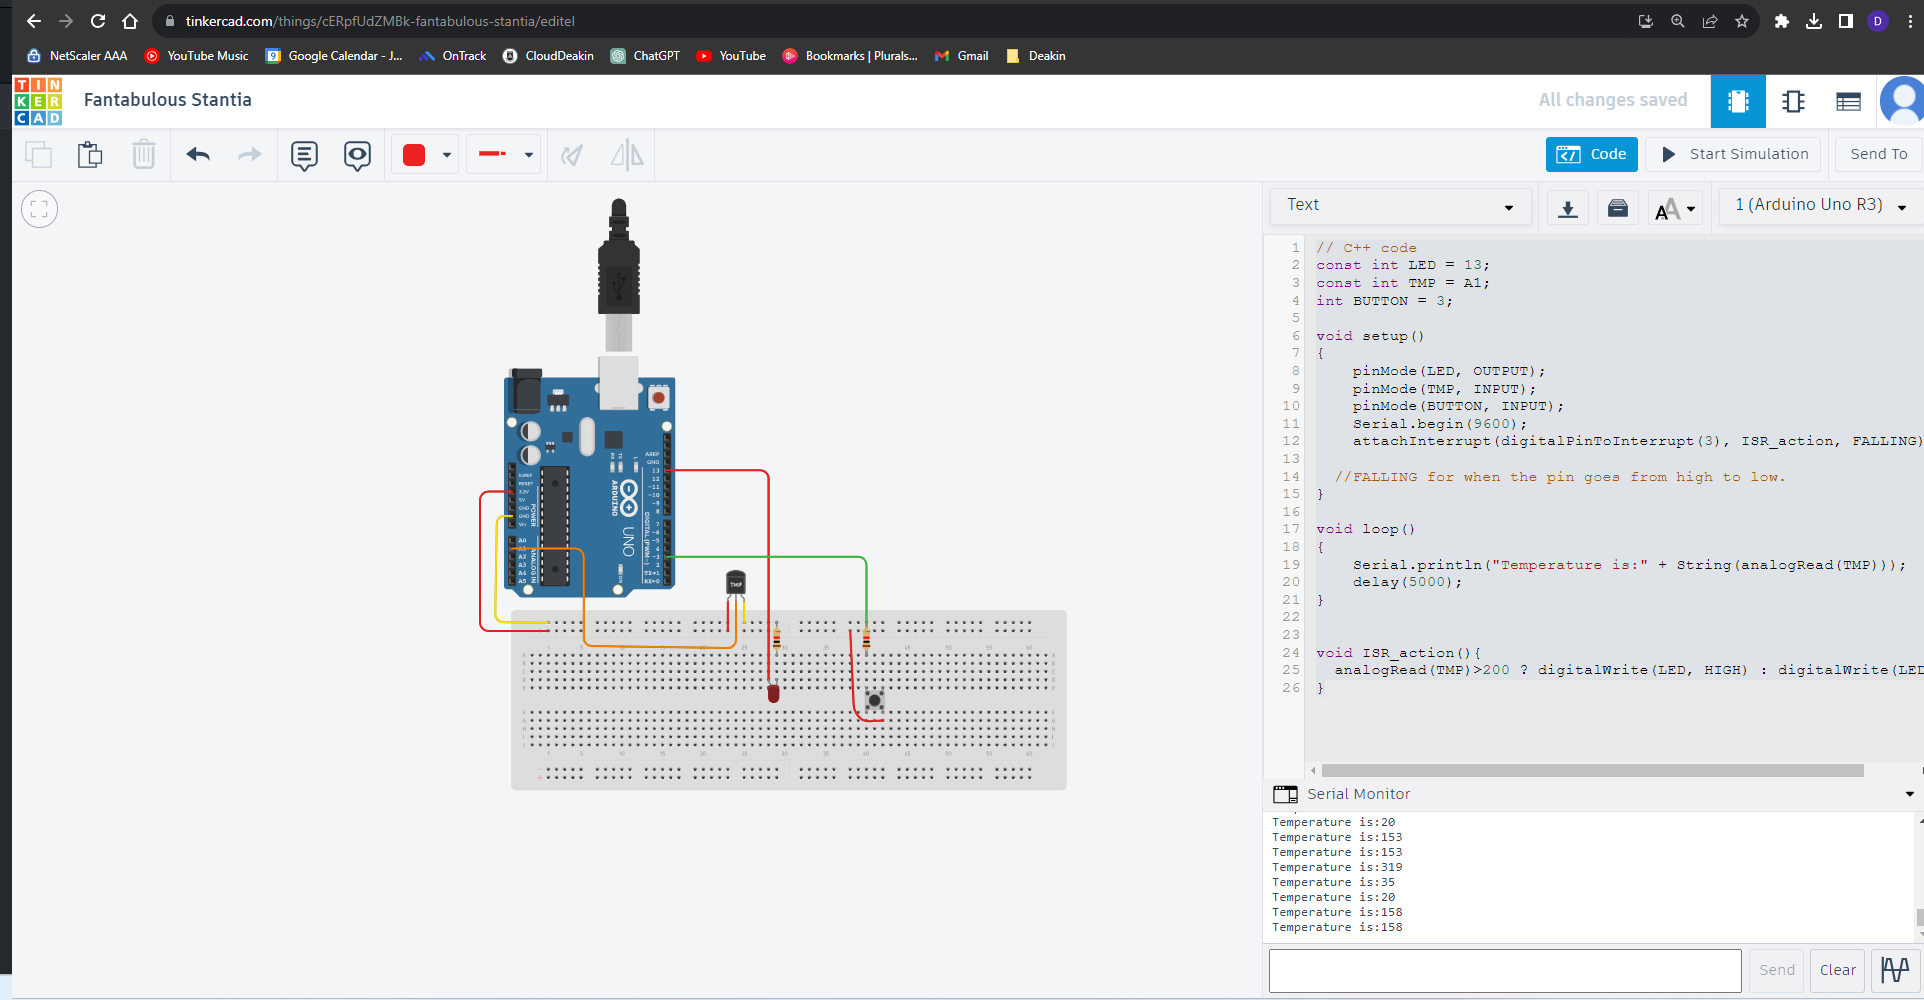
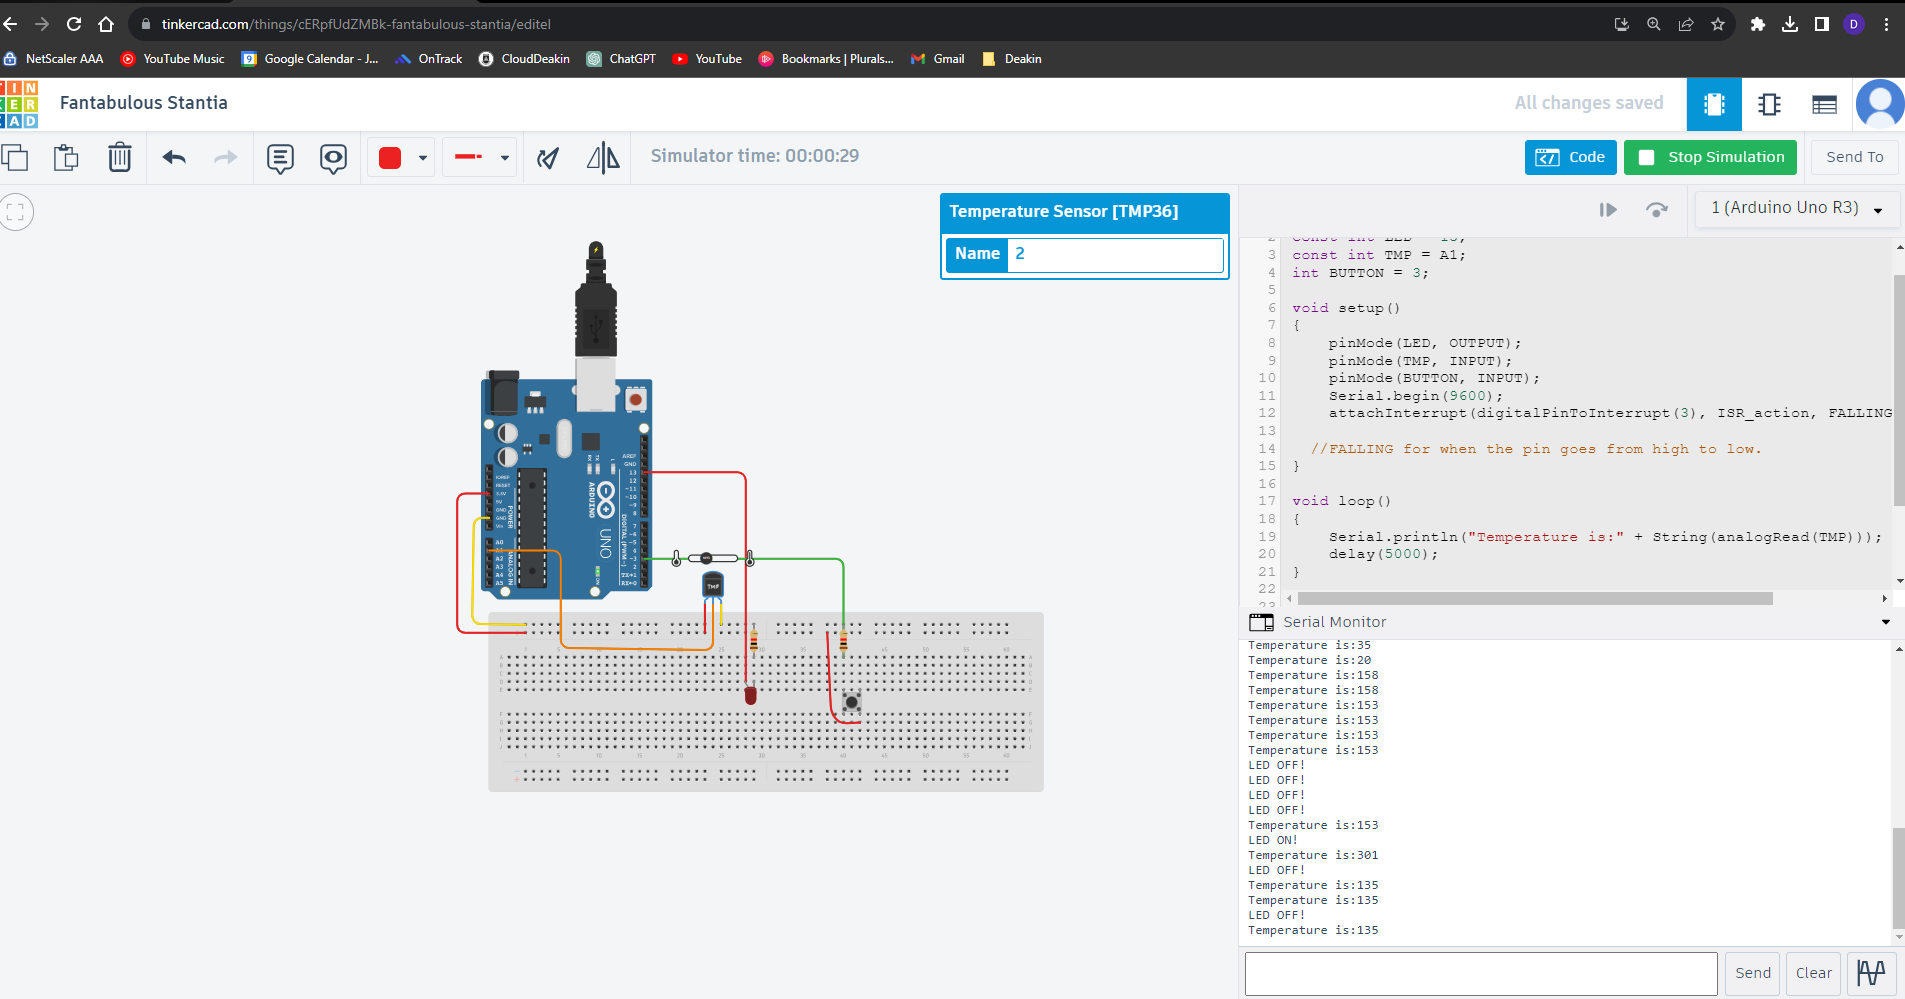
Update

diff --git a/Module1/Task1.2P/interrupts.cpp b/Module1/Task1.2P/interrupts.cpp
@@ -17,10 +17,11 @@ void setup()
 void loop()
 {
   	Serial.println("Temperature is:" + String(analogRead(TMP)));
-	delay(5000); 
+	delay(5000);
 }
 
 
 void ISR_action(){
   analogRead(TMP)>200 ? digitalWrite(LED, HIGH) : digitalWrite(LED, LOW);
+  analogRead(TMP)>200 ? Serial.println("LED ON!") : Serial.println("LED OFF!");
 }
